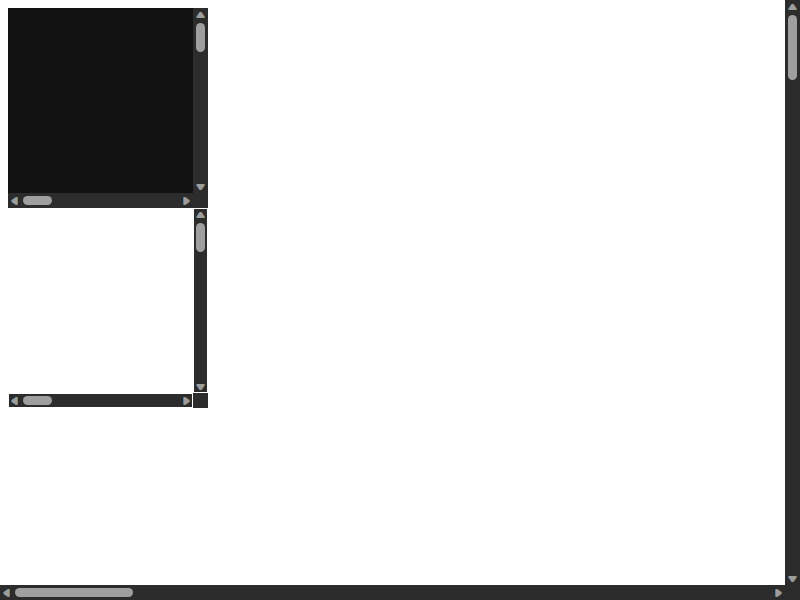
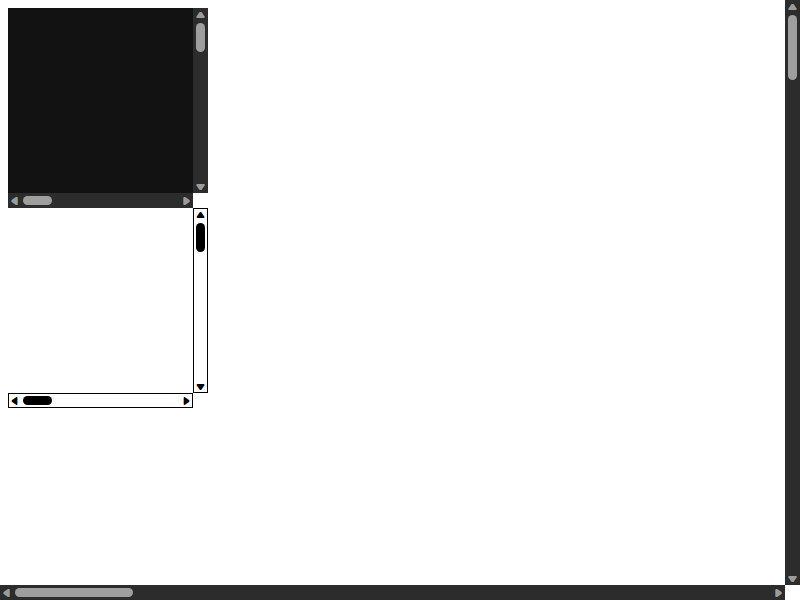
Address comments on code guidelines.
Make setForcedColorsAndDarkPreferredColorScheme emulate forced colors.

The function Internals::setForcedColorsAndDarkPreferredColorScheme is
used in the web tests based on dynamic-color-scheme-change.html

This function sets forced colors from the renderer process on the web
theme engine and the current native theme, but doesn't create any
color providers to be used by the web theme engine.
This CL extracts the creation of the emulated forced colors color
provider in WebThemeEngineDefault into it's own function, and calls
the new function to create the color providers to be used when
rendering fluent scrollbars.

Bug: 1467299
Commit-Queue: Gaston Rodriguez <gastonr@microsoft.com>
Cr-Commit-Position: refs/heads/main@{#1179974}

Changed region(s): [[0.0, 0.33, 0.2812, 0.69], [0.9688, 0.96, 1.0, 1.0]]

diff --git a/renderer/core/testing/color_scheme_helper.cc b/renderer/core/testing/color_scheme_helper.cc
@@ -37,25 +37,30 @@ ColorSchemeHelper::~ColorSchemeHelper() {
 }
 
 void ColorSchemeHelper::SetPreferredColorScheme(
-    const mojom::blink::PreferredColorScheme preferred_color_scheme) {
+    mojom::blink::PreferredColorScheme preferred_color_scheme) {
   settings_.SetPreferredColorScheme(preferred_color_scheme);
 }
 
 void ColorSchemeHelper::SetPreferredContrast(
-    const mojom::blink::PreferredContrast preferred_contrast) {
+    mojom::blink::PreferredContrast preferred_contrast) {
   settings_.SetPreferredContrast(preferred_contrast);
 }
 
 void ColorSchemeHelper::SetForcedColors(Document& document,
-                                        const ForcedColors forced_colors) {
+                                        ForcedColors forced_colors) {
   web_theme_engine_->SetForcedColors(forced_colors);
   document.ColorSchemeChanged();
 }
 
 void ColorSchemeHelper::SetForcedColors(Page& page,
-                                        const ForcedColors forced_colors) {
+                                        ForcedColors forced_colors) {
   web_theme_engine_->SetForcedColors(forced_colors);
   page.ColorSchemeChanged();
 }
 
+void ColorSchemeHelper::SetEmulatedForcedColors(Document& document,
+                                                bool is_dark_theme) {
+  web_theme_engine_->EmulateForcedColors(is_dark_theme);
+  document.ColorSchemeChanged();
+}
 }  // namespace blink

diff --git a/renderer/platform/theme/web_theme_engine_default.cc b/renderer/platform/theme/web_theme_engine_default.cc
@@ -295,11 +295,15 @@ void WebThemeEngineDefault::OverrideForcedColorsTheme(bool is_dark_theme) {
       {ui::NativeTheme::SystemThemeColor::kWindow, 0xFFFFFFFF},
       {ui::NativeTheme::SystemThemeColor::kWindowText, 0xFF000000},
   };
-  emulated_forced_colors_provider_ =
-      ui::CreateEmulatedForcedColorsColorProvider(is_dark_theme);
-  SetEmulateForcedColors(true);
+  EmulateForcedColors(is_dark_theme);
   ui::NativeTheme::GetInstanceForWeb()->UpdateSystemColorInfo(
       false, true, is_dark_theme ? dark_theme : light_theme);
+}
+
+void WebThemeEngineDefault::EmulateForcedColors(bool is_dark_theme) {
+  SetEmulateForcedColors(true);
+  emulated_forced_colors_provider_ =
+      ui::CreateEmulatedForcedColorsColorProvider(is_dark_theme);
 }
 
 void WebThemeEngineDefault::SetForcedColors(const ForcedColors forced_colors) {

diff --git a/renderer/core/testing/color_scheme_helper.h b/renderer/core/testing/color_scheme_helper.h
@@ -27,10 +27,11 @@ class ColorSchemeHelper {
   ~ColorSchemeHelper();
 
   void SetPreferredColorScheme(
-      const mojom::PreferredColorScheme preferred_color_scheme);
-  void SetPreferredContrast(const mojom::PreferredContrast preferred_contrast);
-  void SetForcedColors(Document& document, const ForcedColors forced_colors);
-  void SetForcedColors(Page& page, const ForcedColors forced_colors);
+      mojom::PreferredColorScheme preferred_color_scheme);
+  void SetPreferredContrast(mojom::PreferredContrast preferred_contrast);
+  void SetForcedColors(Document& document, ForcedColors forced_colors);
+  void SetForcedColors(Page& page, ForcedColors forced_colors);
+  void SetEmulatedForcedColors(Document& document, bool is_dark_theme);
 
  private:
   WebThemeEngine* web_theme_engine_ = nullptr;

diff --git a/renderer/core/testing/internals.cc b/renderer/core/testing/internals.cc
@@ -3416,6 +3416,8 @@ void Internals::setForcedColorsAndDarkPreferredColorScheme(Document* document) {
   color_scheme_helper.SetPreferredColorScheme(
       mojom::blink::PreferredColorScheme::kDark);
   color_scheme_helper.SetForcedColors(*document, ForcedColors::kActive);
+  color_scheme_helper.SetEmulatedForcedColors(*document,
+                                              /*is_dark_theme=*/false);
   document->GetFrame()->View()->UpdateAllLifecyclePhasesForTest();
 }
 

diff --git a/renderer/platform/theme/web_theme_engine_default.h b/renderer/platform/theme/web_theme_engine_default.h
@@ -50,6 +50,7 @@ class WebThemeEngineDefault : public WebThemeEngine {
   WebThemeEngine::SystemColorInfoState GetSystemColorInfo() override;
   bool UpdateColorProviders(const ui::RendererColorMap& light_colors,
                             const ui::RendererColorMap& dark_colors) override;
+  void EmulateForcedColors(bool is_dark_theme) override;
 
  protected:
   const ui::ColorProvider* GetColorProviderForPainting(

diff --git a/public/platform/web_theme_engine.h b/public/platform/web_theme_engine.h
@@ -294,6 +294,7 @@ class WebThemeEngine {
     SystemColorInfoState state;
     return state;
   }
+  virtual void EmulateForcedColors(bool is_dark_theme) {}
 
   // Updates the WebThemeEngine's global light and dark ColorProvider instances
   // using the RendererColorMaps provided. Returns true if new ColorProviders
